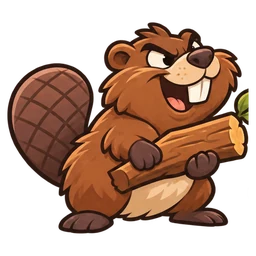
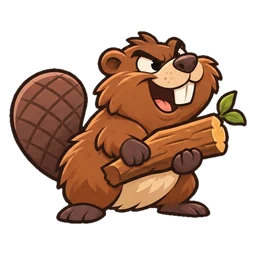
Telefono: market a misura, squadra e panchina a tondini, scheda distesa in orizzontale, finestra Riserva, linguette in legno; Castoro intero
Claude-Session: https://claude.ai/code/session_01HfaWZ85fbzKyRqfxnb746i

diff --git a/index.html b/index.html
@@ -229,9 +229,11 @@ details.codex summary{cursor:pointer;font-family:var(--f-display);font-size:20px
 .quicknav{display:none}
 @media (max-width:760px){
   .quicknav{display:flex;flex-direction:column;gap:6px;position:fixed;left:0;top:50%;transform:translateY(-50%);z-index:40}
-  .quicknav button{display:grid;justify-items:center;gap:1px;width:48px;padding:7px 2px;border:0;border-radius:0 12px 12px 0;background:rgba(43,60,26,.86);color:#fff;font:inherit;font-size:19px;line-height:1;box-shadow:0 2px 8px rgba(0,0,0,.25)}
+  .quicknav button{display:grid;font-family:var(--f-body);justify-items:center;gap:1px;width:48px;padding:7px 2px;border:0;border-radius:0 12px 12px 0;background:rgba(43,60,26,.86);color:#fff;font:inherit;font-size:19px;line-height:1;box-shadow:0 2px 8px rgba(0,0,0,.25)}
   .quicknav button span{font-size:9.5px;font-weight:800;letter-spacing:.01em}
   .quicknav button.on{background:#e0a91c;color:#2b1d00}
+  .quicknav button{background:linear-gradient(180deg,#7a5230,#55381e);border:2px solid #3a240f;border-left:0;color:#fff3d6;text-shadow:0 1px 0 rgba(0,0,0,.4);box-shadow:inset 0 2px 0 rgba(255,255,255,.18),0 3px 8px rgba(0,0,0,.3)}
+  .quicknav button.on{background:linear-gradient(180deg,#ffd75e,#e0a91c);border-color:#8a5d00;color:#3a2600;text-shadow:none}
   #game{scroll-margin-top:8px}#arenaSec,#shopPanel,#teamPanel{scroll-margin-top:10px}
 }.playbig{font-size:20px;padding:16px}
 .playbox{max-width:620px;max-height:92vh;overflow-y:auto;display:grid;gap:12px}
@@ -317,6 +319,14 @@ details.codex summary{cursor:pointer;font-family:var(--f-display);font-size:20px
 .tvs .good{color:var(--good);font-weight:800}.tvs .bad{color:var(--bad);font-weight:800}
 .tpow{font-size:12.5px;border:2px dashed var(--line);border-radius:12px;padding:6px 9px;color:var(--muted)}
 .tpow.on{border-style:solid;border-color:var(--gold);background:color-mix(in srgb,var(--gold) 14%,transparent);color:var(--ink)}
+.qn-roster{display:none!important}
+.rbox{width:100%;max-width:760px;max-height:100%;overflow:auto;background:var(--panel);border-radius:18px;padding:12px;display:grid;gap:10px}
+.rcols{display:grid;grid-template-columns:1fr 1fr;gap:12px}.rcols section{background:var(--chip);border-radius:14px;padding:8px}
+.rcols h3{margin:0 0 6px;font-size:16px}.rgrid{display:grid;grid-template-columns:repeat(auto-fill,minmax(70px,1fr));gap:6px}
+.rgrid .shopic{border:0;background:none;font:inherit;color:inherit;--rs:64px}.rgrid .si-name{font-size:11.5px}
+.rgrid .si-stars,#board.compact .si-stars,#bench.compact .si-stars{font-size:10px}.rgrid .si-ord,#board.compact .si-ord,#bench.compact .si-ord{width:24px;height:24px}.rgrid .si-ord .oimg,#board.compact .si-ord .oimg,#bench.compact .si-ord .oimg{width:18px;height:18px}
+.rempty{color:var(--muted);font-size:13px;margin:6px 0}
+.rbar{display:flex;flex-wrap:wrap;gap:8px;align-items:center}.rbar .rhint{flex:1 1 200px;font-size:13px;color:var(--muted)}.rbar .rname{margin-right:auto}.rbar [data-ract="close"]{margin-left:auto}
 .cmbox{width:100%;max-width:400px;display:grid;gap:10px;max-height:100%;overflow:auto}
 .cmbox .row{background:var(--panel);border-radius:14px;padding:8px}
 .bu{touch-action:none;cursor:grab;user-select:none;-webkit-user-select:none}
@@ -334,13 +344,25 @@ details.codex summary{cursor:pointer;font-family:var(--f-display);font-size:20px
 #shop.compact{grid-template-columns:repeat(5,minmax(0,1fr));gap:10px}
 .shopic{position:relative;display:grid;justify-items:center;align-content:start;gap:5px;padding:8px 4px;border-radius:16px;cursor:pointer;transition:background .15s,transform .15s}
 .shopic:hover{background:var(--chip);transform:translateY(-2px)}.shopic:focus-visible{outline:3px solid #e0a91c}
-.si-ring{width:min(96px,100%);aspect-ratio:1;border-radius:50%;border:5px solid var(--rsup);background:radial-gradient(circle at 50% 35%,var(--panel),var(--chip));display:grid;place-items:center;overflow:hidden;box-shadow:0 3px 8px rgba(0,0,0,.15)}
+.si-ring{width:min(var(--rs,96px),100%);aspect-ratio:1;border-radius:50%;border:5px solid var(--rsup);background:radial-gradient(circle at 50% 35%,var(--panel),var(--chip));display:grid;place-items:center;overflow:hidden;box-shadow:0 3px 8px rgba(0,0,0,.15)}
 .shopic.r-thief .si-ring{border-color:var(--rthief)}.shopic.r-def .si-ring{border-color:var(--rdef)}.shopic.r-atk .si-ring{border-color:var(--ratk)}.shopic.r-ctl .si-ring{border-color:var(--rctl)}
-.si-ring .uimg{width:86%;height:86%;object-fit:contain;vertical-align:0}.si-emo{font-size:42px}
-.si-cost{position:absolute;top:4px;right:max(4px,calc(50% - 56px));width:30px;height:30px;border-radius:50%;display:grid;place-items:center;font-weight:900;font-size:15px;color:#2b1d00;background:radial-gradient(circle at 35% 30%,#fff3b0,#f2c230 50%,#b8860b);box-shadow:0 0 0 2px rgba(0,0,0,.2)}
+.si-ring .uimg{width:86%;height:86%;object-fit:contain;vertical-align:0}
+.shopic{grid-template-columns:minmax(0,1fr);min-width:0}
+#board.compact .shopic,#bench.compact .shopic{--rs:66px}
+#board.compact,#bench.compact{grid-template-columns:repeat(auto-fill,minmax(76px,1fr));gap:8px 6px;align-items:start}
+.shopic.sel .si-ring{box-shadow:0 0 0 3px var(--panel),0 0 0 6px #e0a91c}
+.si-stars{position:absolute;top:2px;right:max(2px,calc(50% - var(--rs,96px)/2 - 6px));padding:1px 6px;border-radius:999px;background:#3a2a00;color:#ffd54a;font-size:11px;font-weight:900;letter-spacing:-1px;box-shadow:0 0 0 2px rgba(0,0,0,.15)}
+.si-stars.s2{background:#4a5563;color:#fff}.si-stars.s3{background:#a8730a;color:#fff6c4}
+.si-ord{position:absolute;top:calc(min(var(--rs,96px),100%) - 20px);right:max(2px,calc(50% - var(--rs,96px)/2 - 2px));width:28px;height:28px;border-radius:50%;background:#fff;display:grid;place-items:center;box-shadow:0 1px 4px rgba(0,0,0,.3)}
+.si-ord .oimg{width:22px;height:22px}
+.slotc{grid-column:1/-1;min-height:0!important;padding:4px 8px!important;font-size:12px;text-align:center}
+.selbar{grid-column:1/-1;display:flex;flex-wrap:wrap;align-items:center;gap:6px 10px;background:var(--chip);border-radius:12px;padding:8px 10px}
+.selbar .oc{font-size:12.5px;color:var(--muted);display:flex;align-items:center;gap:4px}.selbar .oc .oimg{width:20px;height:20px}
+.selbar .acts{display:flex;gap:6px;flex-wrap:wrap;margin-left:auto}.si-name{max-width:100%;overflow-wrap:anywhere;hyphens:auto}.si-emo{font-size:42px}
+.si-cost{position:absolute;top:4px;right:max(4px,calc(50% - var(--rs,96px)/2 - 8px));width:30px;height:30px;border-radius:50%;display:grid;place-items:center;font-weight:900;font-size:15px;color:#2b1d00;background:radial-gradient(circle at 35% 30%,#fff3b0,#f2c230 50%,#b8860b);box-shadow:0 0 0 2px rgba(0,0,0,.2)}
 .si-cost.up{background:radial-gradient(circle at 35% 30%,#ffd9b0,#f08a30 50%,#a3480b);color:#2b1000}
-.si-st{position:absolute;top:4px;left:max(4px,calc(50% - 56px));color:#d4a017;font-size:14px;text-shadow:0 1px 0 rgba(0,0,0,.3)}
-.si-have{position:absolute;top:calc(min(96px,100%) - 14px);font-size:11px;font-weight:900;background:var(--good);color:#fff;border-radius:999px;padding:1px 7px}
+.si-st{position:absolute;top:4px;left:max(4px,calc(50% - var(--rs,96px)/2 - 8px));color:#d4a017;font-size:14px;text-shadow:0 1px 0 rgba(0,0,0,.3)}
+.si-have{position:absolute;top:calc(min(var(--rs,96px),100%) - 14px);font-size:11px;font-weight:900;background:var(--good);color:#fff;border-radius:999px;padding:1px 7px}
 .si-name{font-weight:800;font-size:13.5px;text-align:center;line-height:1.15}
 .shopic.off{opacity:.5}.shopic.off:hover{transform:none}
 @media (max-width:620px){#shop.compact{grid-template-columns:repeat(3,minmax(0,1fr))}}
@@ -404,7 +426,11 @@ button.buylbl{border:0;font-family:inherit;cursor:pointer}
   #game .quicknav{display:flex;flex-direction:row;position:fixed;top:auto;transform:none;z-index:45;gap:6px;
     left:calc(max(16px,env(safe-area-inset-left,0px)) + 128px);bottom:max(10px,env(safe-area-inset-bottom,0px));width:calc(var(--fieldw) - 128px)}
   #game .quicknav button{flex:1;min-width:0;width:auto;grid-auto-flow:column;justify-content:center;align-items:center;gap:4px;border-radius:10px;font-size:14px;padding:5px 4px}
-  #game .quicknav button span{font-size:11px;overflow:hidden;text-overflow:ellipsis}
+  #game .quicknav button span{font-size:13px;font-weight:800;overflow:hidden;text-overflow:ellipsis}
+  #game .quicknav button{border:2px solid #3a240f;border-radius:14px;padding:6px 8px;gap:6px;font-size:17px;box-shadow:inset 0 2px 0 rgba(255,255,255,.18),0 4px 0 #2a1a0a,0 6px 12px rgba(0,0,0,.3)}
+  #game .quicknav button{background:linear-gradient(180deg,#7a5230,#55381e);color:#fff3d6;text-shadow:0 1px 0 rgba(0,0,0,.4);font-family:var(--f-body)}
+  #game .quicknav button.on{background:linear-gradient(180deg,#ffd75e,#e0a91c);border-color:#8a5d00;color:#3a2600;text-shadow:none}
+  #game .quicknav button:active{transform:translateY(3px);box-shadow:inset 0 2px 0 rgba(255,255,255,.18),0 1px 0 #2a1a0a}
   .ctrl{margin-top:6px;gap:6px}.ctrl .btn{padding:6px 10px;font-size:14px}
   #readyBtn{position:fixed;left:max(16px,env(safe-area-inset-left,0px));bottom:max(10px,env(safe-area-inset-bottom,0px));z-index:50;padding:12px 20px!important;font-size:17px!important;box-shadow:0 6px 18px rgba(0,0,0,.35)}
   .panel{padding:10px 12px}
@@ -428,6 +454,19 @@ button.buylbl{border:0;font-family:inherit;cursor:pointer}
   #toast{position:fixed;left:calc(max(16px,env(safe-area-inset-left,0px)) + 6px);bottom:62px;width:calc(var(--fieldw) - 12px);z-index:46;font-size:12.5px;line-height:1.3;background:rgba(20,26,14,.86);color:#fff;border-radius:10px;padding:5px 10px;pointer-events:none}
   #toast:empty{display:none}
   .board{grid-template-columns:repeat(2,minmax(0,1fr));gap:8px}
+  #game .quicknav [data-go="arenaSec"]{display:none!important}#game .quicknav .qn-roster{display:grid!important}
+  #rosterModal,#cardModal{padding:8px}
+  .rbox{max-height:calc(100dvh - 16px)}
+  /* scheda del personaggio distesa: a sinistra immagine e numeri, al centro testo, a destra oro, Compra, stelle e Chiudi */
+  .cmbox{max-width:min(900px,100%);grid-template-columns:minmax(0,1fr) 190px;grid-template-areas:"card buy" "card ctl";grid-template-rows:auto 1fr;align-items:start;max-height:calc(100dvh - 16px);overflow:hidden}
+  #cmCard{grid-area:card;max-height:calc(100dvh - 16px);overflow:auto;border-radius:18px}
+  #cmBuy{grid-area:buy;flex-direction:column;align-items:stretch;background:var(--panel);border-radius:14px;padding:8px}#cmBuy .pill{text-align:center}
+  #cmBuy .btn{font-size:16px;padding:12px 10px}
+  .cmbox>.row{grid-area:ctl;flex-direction:column;align-items:stretch;gap:8px}.cmbox>.row .seg{justify-content:space-between}.cmbox>.row .seg button{flex:1;padding:8px 4px;font-size:14px}
+  .cmbox .tcg{display:grid;grid-template-columns:minmax(0,.85fr) minmax(0,1.15fr);grid-template-areas:"head head" "art text" "tags text" "stats text" "stats vs" "stats pow";grid-template-rows:auto auto auto auto auto 1fr;gap:6px 12px;align-items:start;padding:10px}
+  .cmbox .tcg .ttext{font-size:12.5px!important;line-height:1.35}.cmbox .tcg>header{grid-area:head}.cmbox .tcg .tart{grid-area:art;height:104px!important}.cmbox .tcg .temo{font-size:76px}.cmbox .tcg .ttags{grid-area:tags}
+  .cmbox .tcg .tstats{grid-area:stats}.cmbox .tcg .ttext{grid-area:text;margin:0;font-size:13.5px}.cmbox .tcg .tvs{grid-area:vs;font-size:12.5px}.cmbox .tcg .tpow{grid-area:pow;font-size:12.5px;margin:0}
+  .cmbox .tcg .tfoot{display:none}
 }
 </style>
 
@@ -628,6 +667,16 @@ button.buylbl{border:0;font-family:inherit;cursor:pointer}
     </div>
   </div>
 
+  <div class="modal hidden" id="rosterModal" role="dialog" aria-modal="true" aria-label="Campo e panchina">
+    <div class="rbox">
+      <div class="rcols">
+        <section><h3>🏟 In campo <small id="rFieldN"></small></h3><div class="rgrid" id="rField"></div></section>
+        <section><h3>🪑 Panchina <small id="rBenchN"></small></h3><div class="rgrid" id="rBench"></div></section>
+      </div>
+      <div class="rbar" id="rBar"></div>
+    </div>
+  </div>
+
   <div id="game" class="hidden" style="display:grid;gap:14px">
   <div class="how">
     <span><b>1.</b> Compra unità e ordini con l'oro. 3 copie uguali diventano ★★, tre ★★ diventano ★★★ con un potere.</span>
@@ -641,6 +690,7 @@ button.buylbl{border:0;font-family:inherit;cursor:pointer}
       <button data-go="arenaSec" aria-label="Campo">🏟<span>Campo</span></button>
       <button data-go="shopPanel" aria-label="Market e ordini">🛒<span>Market</span></button>
       <button data-go="teamPanel" aria-label="Squadra e panchina">👥<span>Squadra</span></button>
+      <button data-roster class="qn-roster" aria-label="Riserva: campo e panchina">🔁<span>Riserva</span></button>
     </nav>
     <section class="arena" id="arenaSec">
       <canvas id="field" width="960" height="540" aria-label="Campo di gioco"></canvas>
@@ -2412,12 +2462,24 @@ function renderAll0(){
   const card=b=>`<div class="bu tcgbtn${G.sel===b.uid?' sel':''}" tabindex="0" role="button" data-sel="${b.uid}" aria-label="${UNITS[b.type].n}${b.star>1?' '+'★'.repeat(b.star):''}">${tcgCard(b.type,b.star,{compact:true,foot:
      `<span class="oc ${b.order?'':'none'}">${b.order?OIC(ORDERS[b.order])+' '+ORDERS[b.order].n:'nessun ordine'}</span>
       <span class="acts"><button class="sell" data-card="${b.type}:${b.star}">Scheda</button>${shop?`<button class="sell" data-swap="${b.uid}">${b.bench?'↑ In campo':'↓ Panchina'}</button><button class="sell" data-sell="${b.uid}">Vendi (+1)</button>`:''}</span>`})}</div>`;
+  if(COMPACT.matches){// da telefono: tondini con stelle e ordine; sotto quello selezionato, i suoi comandi
+    const ic=b=>`<div class="shopic bu r-${roleOf(b.type)}${G.sel===b.uid?' sel':''}" tabindex="0" role="button" data-sel="${b.uid}" aria-label="${UNITS[b.type].n} ${'★'.repeat(b.star)}${b.order?' · '+ORDERS[b.order].n:''}">
+      <span class="si-ring">${IC(UNITS[b.type])}</span><span class="si-stars s${b.star}">${'★'.repeat(b.star)}</span>
+      ${b.order?`<span class="si-ord" title="${ORDERS[b.order].n}">${OIC(ORDERS[b.order])}</span>`:''}<span class="si-name">${UNITS[b.type].n}</span></div>`;
+    const bar=list=>{const b=list.find(x=>x.uid===G.sel);if(!b)return'';const d=UNITS[b.type];
+      return `<div class="selbar"><b>${d.n} ${'★'.repeat(b.star)}</b><span class="oc">${b.order?OIC(ORDERS[b.order])+' '+ORDERS[b.order].n:'nessun ordine'}</span>
+        <span class="acts"><button class="sell" data-card="${b.type}:${b.star}">Scheda</button>${shop?`<button class="sell" data-swap="${b.uid}">${b.bench?'↑ In campo':'↓ Panchina'}</button><button class="sell" data-sell="${b.uid}">Vendi (+1)</button>`:''}</span></div>`};
+    $('board').innerHTML=field.map(ic).join('')+(field.length<MAXB?`<div class="slot slotc">${MAXB-field.length} posti liberi</div>`:'')+bar(field);
+    $('bench').innerHTML=bench.map(ic).join('')+(bench.length<MAXBENCH?`<div class="slot slotc">${MAXBENCH-bench.length} posti liberi</div>`:'')+bar(bench);
+  }else{
   let h=field.map(card).join('');
   if(field.length<MAXB) h+=`<div class="slot" style="min-height:60px">${MAXB-field.length} posti liberi</div>`;
   $('board').innerHTML=h;
   let hb=bench.map(card).join('');
   if(bench.length<MAXBENCH) hb+=`<div class="slot" style="min-height:60px;text-align:center;padding:6px">${MAXBENCH-bench.length} posti liberi<br>trascina qui un'unità o usa ↓ Panchina</div>`;
-  $('bench').innerHTML=hb;
+  $('bench').innerHTML=hb;}
+  $('board').classList.toggle('compact',COMPACT.matches);$('bench').classList.toggle('compact',COMPACT.matches);
+  if(!$('rosterModal').classList.contains('hidden'))renderRoster();
   const RO=['thief','def','ctl','atk','sup'],pl=[...G.pool].sort((a,b)=>RO.indexOf(roleOf(a))-RO.indexOf(roleOf(b))||UNITS[a].t-UNITS[b].t);
   $('poolCount').textContent=`${pl.length} personaggi`;
   $('poolList').innerHTML=pl.map(k=>{const u=UNITS[k],lock=!avail(k,G.round);return `<span class="mini pchip r-${roleOf(k)}${lock?' lock':''}" data-card="${k}:1" role="button" tabindex="0" title="${lock?`Disponibile dal round ${Math.max(u.minRound||1,u.t===3?3:1)}`:u.n}">${IC(u)} ${u.n}${lock?` <small>dal r${Math.max(u.minRound||1,u.t===3?3:1)}</small>`:''}</span>`}).join('');
@@ -2468,7 +2530,7 @@ document.addEventListener('click',e=>{
   const cs=e.target.closest('[data-cs]');if(cs){CM.star=+cs.dataset.cs;drawCard();return}
   if(e.target.id==='cmClose'||e.target.id==='cardModal')closeCard();
 });
-document.addEventListener('keydown',e=>{if(e.key==='Escape')closeCard();{const sc=e.target.closest&&e.target.closest('[data-shopcard]');if(sc&&(e.key==='Enter'||e.key===' ')){e.preventDefault();sc.click();return}}const c=e.target.closest&&e.target.closest('.tcgbtn');if(c&&e.target===c&&!c.dataset.sel&&(e.key==='Enter'||e.key===' ')){e.preventDefault();c.click()}});
+document.addEventListener('keydown',e=>{if(e.key==='Escape'){closeCard();closeRoster()}{const sc=e.target.closest&&e.target.closest('[data-shopcard]');if(sc&&(e.key==='Enter'||e.key===' ')){e.preventDefault();sc.click();return}}const c=e.target.closest&&e.target.closest('.tcgbtn');if(c&&e.target===c&&!c.dataset.sel&&(e.key==='Enter'||e.key===' ')){e.preventDefault();c.click()}});
 function renderCodex(){
   const RO=['thief','def','ctl','atk','sup'],ks=Object.keys(UNITS).filter(k=>!UNITS[k].hidden).sort((a,b)=>RO.indexOf(roleOf(a))-RO.indexOf(roleOf(b))||UNITS[a].t-UNITS[b].t);
   $('codex').innerHTML=`<div class="rolelegend">${RO.map(r=>`<span><i style="background:var(--r${r})"></i><b>${ROLES[r].n}</b> · ${ROLES[r].d}</span>`).join('')}</div>
@@ -3570,6 +3632,38 @@ function coachTick(){
 }
 $('coachNext').onclick=()=>{if(!COACH)return;COACH.i++;coachTick()};
 $('coachExit').onclick=()=>endGuided();
+// finestra Riserva (telefono in orizzontale): da un lato chi è in campo, dall'altro la panchina; si sposta, si scambia o si vende
+let RSEL=[];
+function openRoster(){RSEL=[];renderRoster();$('rosterModal').classList.remove('hidden')}
+function closeRoster(){$('rosterModal').classList.add('hidden')}
+function renderRoster(){if(!G)return;const p=ME(),shop=G.phase==='shop',field=p.board.filter(b=>!b.bench),bench=p.board.filter(b=>b.bench);
+  RSEL=RSEL.filter(u=>p.board.some(b=>b.uid===u));
+  const ic=b=>`<button class="shopic r-${roleOf(b.type)}${RSEL.includes(b.uid)?' sel':''}" data-rsel="${b.uid}" aria-pressed="${RSEL.includes(b.uid)}">
+    <span class="si-ring">${IC(UNITS[b.type])}</span><span class="si-stars s${b.star}">${'★'.repeat(b.star)}</span>
+    ${b.order?`<span class="si-ord" title="${ORDERS[b.order].n}">${OIC(ORDERS[b.order])}</span>`:''}<span class="si-name">${UNITS[b.type].n}</span></button>`;
+  $('rField').innerHTML=field.map(ic).join('')||'<p class="rempty">Nessuno in campo</p>';$('rBench').innerHTML=bench.map(ic).join('')||'<p class="rempty">Panchina vuota</p>';
+  $('rFieldN').textContent=`${field.length}/${MAXB}`;$('rBenchN').textContent=`${bench.length}/${MAXBENCH}`;
+  const sel=RSEL.map(u=>p.board.find(b=>b.uid===u)),f=sel.find(b=>!b.bench),bb=sel.find(b=>b.bench);let h;
+  if(!shop)h=`<span class="rhint">Puoi cambiare la squadra solo durante il market.</span>`;
+  else if(f&&bb)h=`<button class="btn primary" data-ract="swap">⇄ Scambia ${UNITS[f.type].n} con ${UNITS[bb.type].n}</button>`;
+  else if(sel.length===1){const b=sel[0],d=UNITS[b.type],room=b.bench?field.length<MAXB:bench.length<MAXBENCH;
+    h=`<b class="rname">${d.n} ${'★'.repeat(b.star)}</b><button class="btn primary" data-ract="move" ${room?'':'disabled'}>${b.bench?'↑ In campo':'↓ In panchina'}</button>
+      <button class="btn sell" data-ract="sell">Vendi +1</button><button class="btn" data-card="${b.type}:${b.star}">Scheda</button>`}
+  else h=`<span class="rhint">Tocca un'unità per spostarla o venderla. Toccane una in campo e una in panchina per scambiarle.</span>`;
+  $('rBar').innerHTML=h+`<button class="btn" data-ract="close">Chiudi</button>`}
+document.addEventListener('click',e=>{
+  if(e.target.closest('[data-roster]')){openRoster();return}
+  if(e.target===$('rosterModal')){closeRoster();return}
+  const s=e.target.closest('[data-rsel]');if(s){const u=+s.dataset.rsel,p=ME(),b=p.board.find(x=>x.uid===u);
+    if(RSEL.includes(u))RSEL=RSEL.filter(x=>x!==u);else{RSEL=RSEL.filter(x=>{const o=p.board.find(y=>y.uid===x);return o&&o.bench!==b.bench});RSEL.push(u)}
+    renderRoster();return}
+  const a=e.target.closest('[data-ract]');if(!a)return;const act=a.dataset.ract;if(act==='close'){closeRoster();return}
+  if(!G||G.phase!=='shop')return;const p=ME(),sel=RSEL.map(u=>p.board.find(b=>b.uid===u)).filter(Boolean);
+  if(act==='swap'){const f=sel.find(b=>!b.bench),bb=sel.find(b=>b.bench);if(!f||!bb)return;bb.px=f.px;bb.py=f.py;bb.bench=false;f.bench=true;toast(`${UNITS[bb.type].n} entra in campo al posto di ${UNITS[f.type].n}.`)}
+  if(act==='move'){const b=sel[0];if(!b)return;if(b.bench){if(p.board.filter(x=>!x.bench).length>=MAXB)return;Object.assign(b,defaultPos(b.type,p.board.filter(x=>!x.bench).length,G.rng))}
+    else if(p.board.filter(x=>x.bench).length>=MAXBENCH)return;b.bench=!b.bench}
+  if(act==='sell'){const b=sel[0];if(!b)return;sellUnit(p,b.uid);if(G.sel===b.uid)G.sel=null;toast('Venduta: +1 oro')}
+  RSEL=[];renderAll();renderRoster()});
 // linguette rapide (telefono): portano alla sezione e si illumina quella che stai guardando
 document.addEventListener('click',e=>{const b=e.target.closest('[data-go]');if(!b)return;$(b.dataset.go).scrollIntoView({behavior:'smooth',block:'start'})});
 addEventListener('scroll',()=>{if($('game').classList.contains('hidden'))return;let cur='arenaSec';

diff --git a/lang/fr.js b/lang/fr.js
@@ -946,5 +946,14 @@ window.FF_I18N=window.FF_I18N||{};window.FF_I18N.fr={
 "Costruisce": "Construit",
 "Spara da lontano": "Tire de loin",
 "Uovo finto": "Faux œuf",
-"Grido d'allarme": "Cri d’alarme"
+"Grido d'allarme": "Cri d’alarme",
+"Riserva": "Réserve",
+"🏟 In campo": "🏟 Sur le terrain",
+"Nessuno in campo": "Personne sur le terrain",
+"Panchina vuota": "Banc vide",
+"Puoi cambiare la squadra solo durante il market.": "Tu peux changer l’équipe seulement pendant le marché.",
+"Tocca un'unità per spostarla o venderla. Toccane una in campo e una in panchina per scambiarle.": "Touche une unité pour la déplacer ou la vendre. Touches-en une sur le terrain et une sur le banc pour les échanger.",
+"↓ In panchina": "↓ Sur le banc",
+"Riserva: campo e panchina": "Réserve : terrain et banc",
+"Campo e panchina": "Terrain et banc"
 };

diff --git a/lang/es.js b/lang/es.js
@@ -946,5 +946,14 @@ window.FF_I18N=window.FF_I18N||{};window.FF_I18N.es={
 "Costruisce": "Construye",
 "Spara da lontano": "Dispara de lejos",
 "Uovo finto": "Huevo falso",
-"Grido d'allarme": "Grito de alarma"
+"Grido d'allarme": "Grito de alarma",
+"Riserva": "Reserva",
+"🏟 In campo": "🏟 En el campo",
+"Nessuno in campo": "Nadie en el campo",
+"Panchina vuota": "Banquillo vacío",
+"Puoi cambiare la squadra solo durante il market.": "Solo puedes cambiar el equipo durante el mercado.",
+"Tocca un'unità per spostarla o venderla. Toccane una in campo e una in panchina per scambiarle.": "Toca una unidad para moverla o venderla. Toca una en el campo y una en el banquillo para cambiarlas.",
+"↓ In panchina": "↓ Al banquillo",
+"Riserva: campo e panchina": "Reserva: campo y banquillo",
+"Campo e panchina": "Campo y banquillo"
 };

diff --git a/lang/en.js b/lang/en.js
@@ -946,5 +946,14 @@ window.FF_I18N=window.FF_I18N||{};window.FF_I18N.en={
 "Costruisce": "Builds",
 "Spara da lontano": "Shoots from afar",
 "Uovo finto": "Fake egg",
-"Grido d'allarme": "Alarm call"
+"Grido d'allarme": "Alarm call",
+"Riserva": "Reserve",
+"🏟 In campo": "🏟 On the field",
+"Nessuno in campo": "Nobody on the field",
+"Panchina vuota": "Bench is empty",
+"Puoi cambiare la squadra solo durante il market.": "You can change the team only during the shop.",
+"Tocca un'unità per spostarla o venderla. Toccane una in campo e una in panchina per scambiarle.": "Tap a unit to move or sell it. Tap one on the field and one on the bench to swap them.",
+"↓ In panchina": "↓ To the bench",
+"Riserva: campo e panchina": "Reserve: field and bench",
+"Campo e panchina": "Field and bench"
 };

diff --git a/sw.js b/sw.js
@@ -2,7 +2,7 @@
 // Pagina e script: prima la rete (così gli aggiornamenti arrivano subito), poi la copia salvata.
 // Immagini: prima la copia salvata. Quando cambi immagini già esistenti, aumenta VERSION.
 // tools/test-pwa.js controlla che tutte le icone siano in PRECACHE.
-const VERSION='ff-v4';
+const VERSION='ff-v5';
 const PRECACHE=[
  "./",
  "index.html",

diff --git a/tools/immagini/cutgrid.py b/tools/immagini/cutgrid.py
@@ -12,6 +12,9 @@ im=Image.open(src).convert('RGB');W,H=im.size;A=np.array(im).astype(int)
 white=(A.min(axis=2)>226)&((A.max(axis=2)-A.min(axis=2))<22)
 lab,n=nd.label(white);border=set(np.unique(np.concatenate([lab[0],lab[-1],lab[:,0],lab[:,-1]])))-{0}
 bg=np.isin(lab,list(border));ink=~bg
+src_rgba=Image.open(src).convert('RGBA');AL=np.array(src_rgba)[:,:,3]
+if AL.min()<10:  # immagine già trasparente: la forma è dove c'è colore
+    ink=AL>40;bg=~ink;white=np.zeros_like(ink);im=src_rgba
 pl,pn=nd.label(ink);objs=nd.find_objects(pl);psz=nd.sum(ink,pl,range(1,pn+1));com=nd.center_of_mass(ink,pl,range(1,pn+1))
 cell={}
 for k in range(pn):
@@ -25,8 +28,8 @@ for idx,name in enumerate(names):
             if z>120: m&=~(hl==k)
     ys,xs=np.where(m);x0,x1,y0,y1=xs.min(),xs.max()+1,ys.min(),ys.max()+1
     al=Image.fromarray((m*255).astype(np.uint8)).filter(ImageFilter.MinFilter(3)).filter(ImageFilter.GaussianBlur(.7))
-    rgba=im.convert('RGBA');rgba.putalpha(al);cr=rgba.crop((x0,y0,x1,y1))
-    S=128;k=120/max(cr.size);cr=cr.resize((round(cr.width*k),round(cr.height*k)),Image.LANCZOS)
+    rgba=im.convert('RGBA');rgba.putalpha(Image.fromarray(np.minimum(np.array(al),np.array(im.convert('RGBA'))[:,:,3])));cr=rgba.crop((x0,y0,x1,y1))
+    import os;S=int(os.environ.get('SIZE','128'));k=S*.93/max(cr.size);cr=cr.resize((round(cr.width*k),round(cr.height*k)),Image.LANCZOS)
     out=Image.new('RGBA',(S,S),(0,0,0,0));out.alpha_composite(cr,((S-cr.width)//2,(S-cr.height)//2))
     out.save(f'{OUT}/{name}.webp','WEBP',quality=88,method=6)
 print('ok',len(names))
